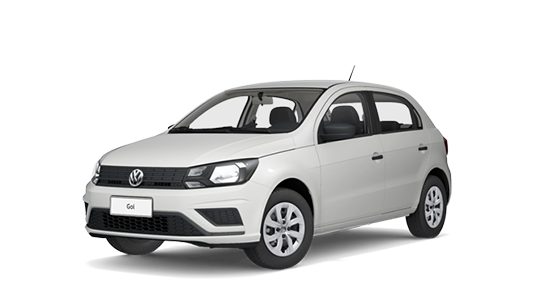
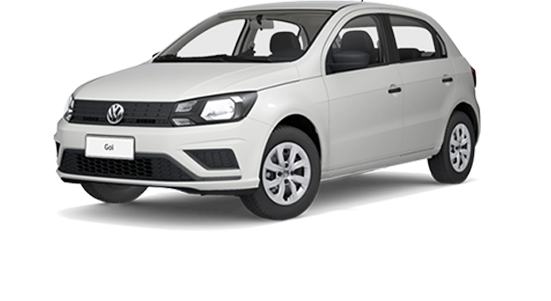
Transformando para celular

diff --git a/index.html b/index.html
@@ -19,7 +19,7 @@
   </head>
   <body>
     <div id="fakeloader">
-      <div class="spinner5">
+      <div class="spinner5"> 
         <div class="cube1"></div>
         <div class="cube2"></div>
       </div>
@@ -47,9 +47,37 @@
                 </li>
               </ul>
             </div> -->
+           
+             <!-- <img src="img/banner-group-car.png" style="width: 1700px; margin-left: -250px;" alt=""> -->
+           
              <div class="group-car-image">
-              <img src="img/banner-group-car.png" style="width: 1700px; margin-left: -250px;" alt="">
-            </div>
+              <img class="desktop-image" src="img/banner-group-car.png" style="max-width: 100%; height: auto; display: block; margin: 0 auto;" alt="">
+              <img class="mobile-image" src="img/paracelular.png" style="max-width: 100%; height: auto; display: none; margin: 0 auto;" alt="">
+          </div>
+          
+          <style>
+              @media only screen and (max-width: 767px) {
+                  .desktop-image {
+                      display: none;
+                  }
+          
+                  .mobile-image {
+                      display: block;
+                  }
+              }
+          
+              @media only screen and (min-width: 768px) {
+                  .desktop-image {
+                      display: block;
+                  }
+          
+                  .mobile-image {
+                      display: none;
+                  }
+              }
+          </style>
+       
+       
             <!--
             <div class="">
               <div class="rq-search-container">
@@ -306,7 +334,106 @@
                 <img src="img/tab-image/Pegeout_208_Hatch01.png" data-img-src="" alt="">
                 <h5><a href="#">Pegeout 208 Hatch</a></h5>
               </div>
+               <!-- FIM ONIX SEDAN -->
+               <!-- INICIO Pegeout 208 Hatch -->
+               <div class="item">
+                <div class="car-details-bg">
+                  <span>R$250/Dia</span>
+                  <div class="owl-title-area">
+                    <h4><a href="#">Tucson GLS TGDI</a></h4>
+                    <span class="rating">
+                      <i class="ion-android-star"></i>
+                      <i class="ion-android-star"></i>
+                      <i class="ion-android-star"></i>
+                      <i class="ion-android-star"></i>
+                      <i class="ion-android-star"></i>
+                    </span>
+                  </div>
+                </div>
+                <img src="img/tab-image/Tucson01.png" data-img-src="" alt="">
+                <h5><a href="#">Tucson GLS TGDI</a></h5>
+              </div>
+                <!-- FIM Pegeout 208 Hatch -->
+                <!-- INICIO Toro -->
+                <div class="item">
+                  <div class="car-details-bg">
+                    <span>R$250/Dia</span>
+                    <div class="owl-title-area">
+                      <h4><a href="#">Toro</a></h4>
+                      <span class="rating">
+                        <i class="ion-android-star"></i>
+                        <i class="ion-android-star"></i>
+                        <i class="ion-android-star"></i>
+                        <i class="ion-android-star"></i>
+                        <i class="ion-android-star"></i>
+                      </span>
+                    </div>
+                  </div>
+                  <img src="img/tab-image/Toro01.png" data-img-src="" alt="">
+                  <h5><a href="#">Toro</a></h5>
+                </div>
+                 <!-- FIM Toro -->
+                 <!-- INICIO Gol -->
+                 <div class="item">
+                  <div class="car-details-bg">
+                    <span>R$150/Dia</span>
+                    <div class="owl-title-area">
+                      <h4><a href="#">GOL</a></h4>
+                      <span class="rating">
+                        <i class="ion-android-star"></i>
+                        <i class="ion-android-star"></i>
+                        <i class="ion-android-star"></i>
+                        <i class="ion-android-star"></i>
+                        <i class="ion-android-star"></i>
+                      </span>
+                    </div>
+                  </div>
+                  <img src="img/tab-image/GOL 1;0 HACTCH.png" data-img-src="" alt="">
+                  <h5><a href="#">Gol</a></h5>
+                </div>
+                <!-- FIM Toro -->
+                <!-- INICIO SPIN -->
+                <div class="item">
+                  <div class="car-details-bg">
+                    <span>R$150/Dia</span>
+                    <div class="owl-title-area">
+                      <h4><a href="#">SPIN</a></h4>
+                      <span class="rating">
+                        <i class="ion-android-star"></i>
+                        <i class="ion-android-star"></i>
+                        <i class="ion-android-star"></i>
+                        <i class="ion-android-star"></i>
+                        <i class="ion-android-star"></i>
+                      </span>
+                    </div>
+                  </div>
+                  <img src="img/tab-image/SPIN.png" style="margin-left: 20px;" data-img-src="" alt="">
+                  <h5><a href="#">SPIN</a></h5>
+                </div>
+                 <!-- FIM SPIN -->
+                 <!-- INICIO Jeep Compass Suv -->
+                 <div class="item">
+                  <div class="car-details-bg">
+                    <span>R$150/Dia</span>
+                    <div class="owl-title-area">
+                      <h4><a href="#">Jeep Compass Suv</a></h4>
+                      <span class="rating">
+                        <i class="ion-android-star"></i>
+                        <i class="ion-android-star"></i>
+                        <i class="ion-android-star"></i>
+                        <i class="ion-android-star"></i>
+                        <i class="ion-android-star"></i>
+                      </span>
+                    </div>
+                  </div>
+                  <img src="img/tab-image/Jeep Compass Suv.png" style="margin-left: 20px;" data-img-src="" alt="">
+                  <h5><a href="#">Jeep Compass Suv</a></h5>
+                </div>
+                <!-- FIM Jeep Compass -->
             </div>
+        
+            </div>
+            
             <div class="browse-cars">
               <a href="https://wa.link/jn6p0u" target="_blank"><button style="background-color: #ffbb01; color: white; border-radius: 4px; padding: 10px 20px; font-size: 16px; cursor: pointer;">ALUGAR AGORA!</button></a>
 
